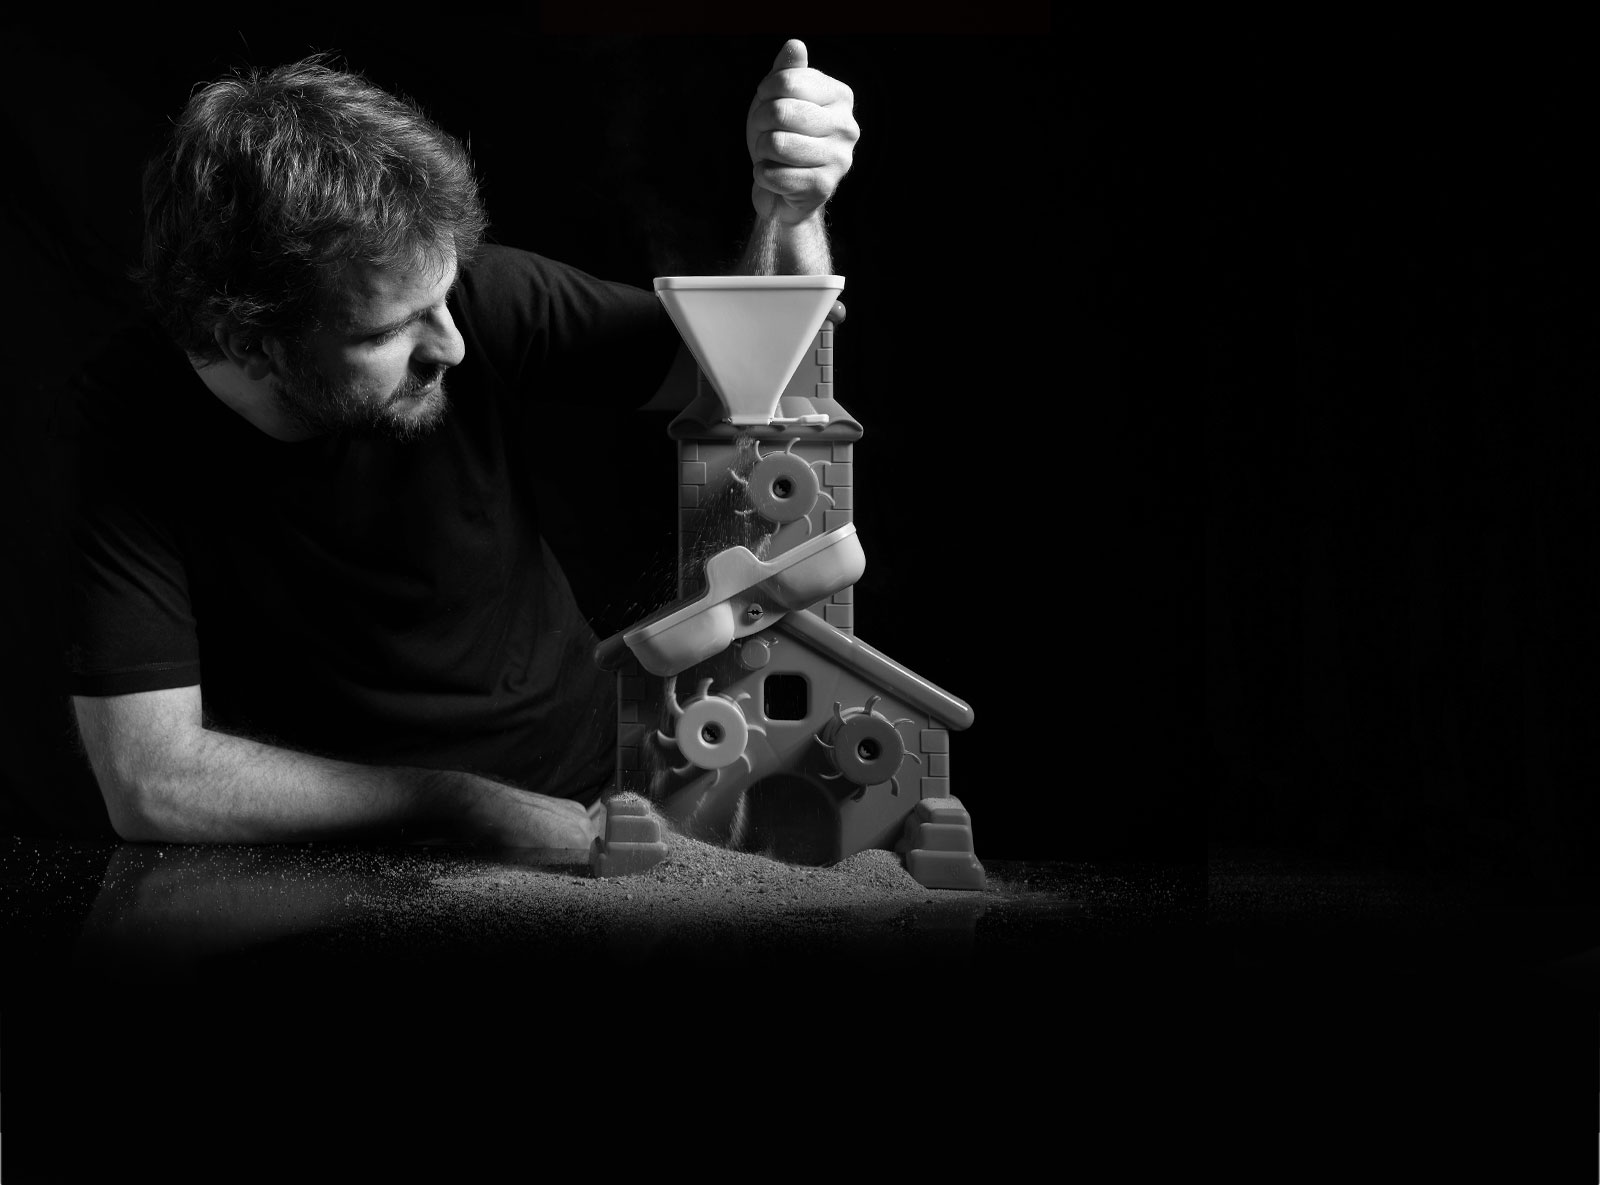
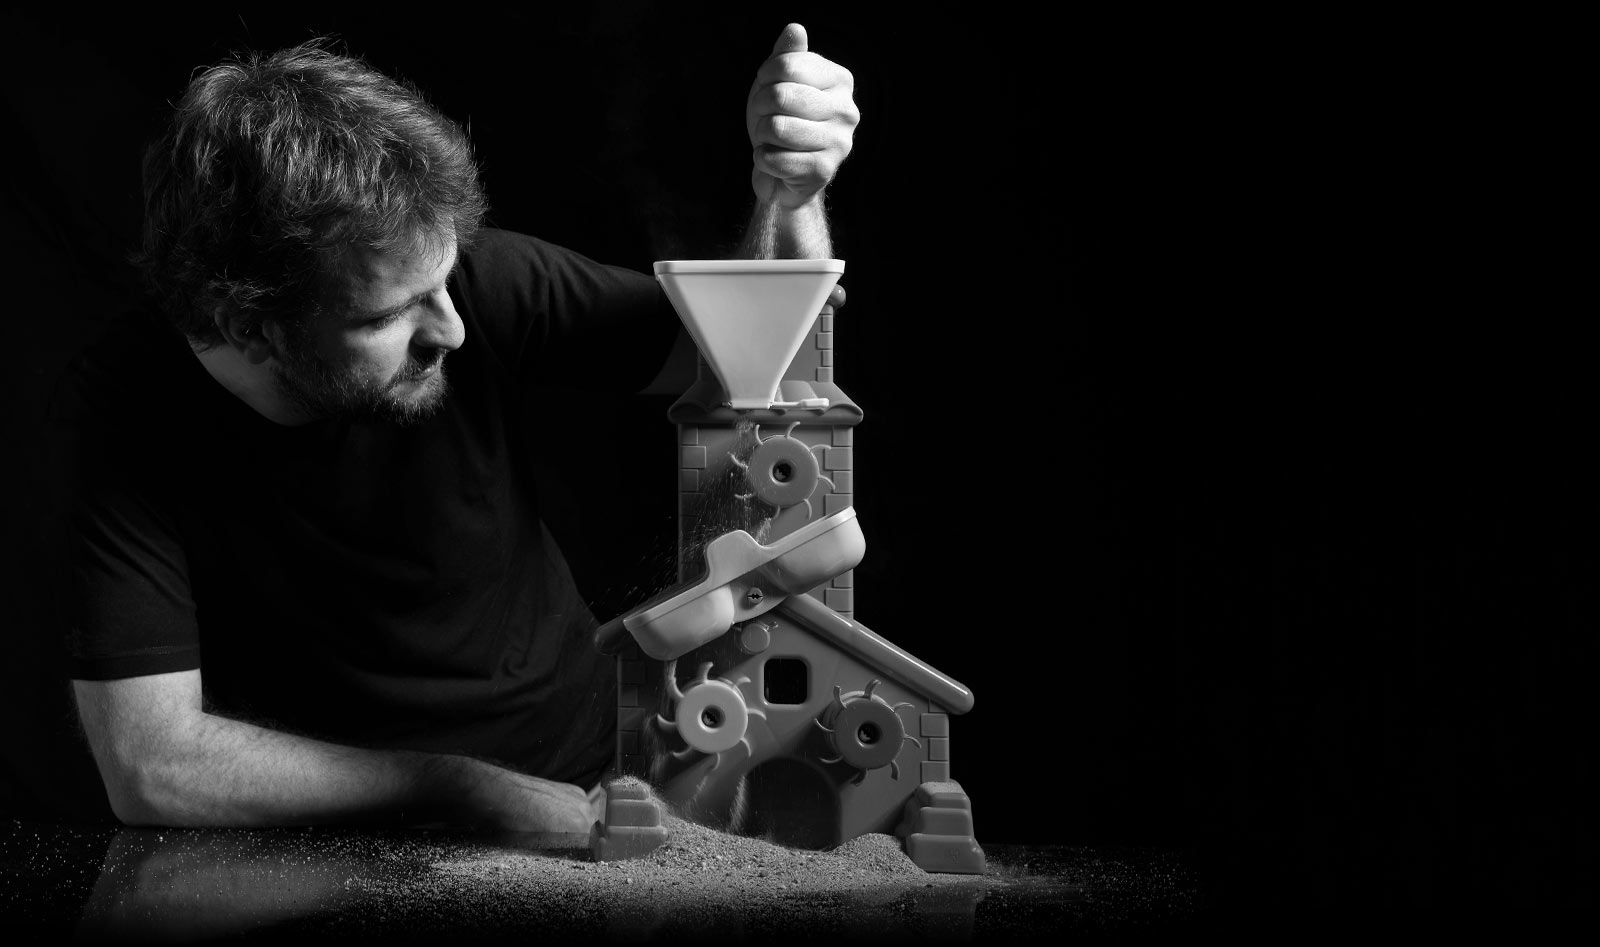
black strip

Changed region(s): [[0.0312, 0.0306, 0.6875, 0.9799]]

diff --git a/css/main.css b/css/main.css
@@ -743,8 +743,10 @@ img.top {
 
 .pt-page-5 .branch-content-1 {
   background: url(../img/05_customers/pietro_customers_bw.jpg) no-repeat;
-  background-position: right bottom;
-  background-color: #000000;
+  height: 100%;
+  max-height: 947px;
+  /*background-position: right bottom;
+  background-color: #000000;*/
   -pie-background: url(../img/05_customers/pietro_customers_bw.jpg) no-repeat; /*ie 6-9 via PIE*/
 }
 
@@ -776,9 +778,12 @@ img.top {
 }
 
 .pt-page-3 .branch-content-1 {
-  background: url(../img/03_science/luca_science_bw.jpg) no-repeat;
-  background-position: left bottom;
-  background-color: #000000;
+  background: url(../img/03_science/luca_science_bw.jpg) no-repeat center bottom;
+  height: 100%;
+  max-height: 947px;
+  /*background-position: left bottom;
+  background-color: #000000;*/
+  -pie-background: url(../img/03_science/luca_science_bw.jpg) no-repeat; /*ie 6-9 via PIE*/
 }
 
 .pt-page-3 .branch-content-2 {
@@ -811,10 +816,12 @@ img.top {
 }
 
 .pt-page-4 .branch-content-1 {
-  /*background: url(../img/04_design/foto_ufficio.jpg) no-repeat;*/
-  background-position: left bottom;
-  background-color: #000000;
-  /*-pie-background: url(../img/04_design/foto_ufficio.jpg) no-repeat; /*ie 6-9 via PIE*/*/
+  background: url(../img/04_design/foto_ufficio.jpg) no-repeat;
+  height: 100%;
+  max-height: 947px;
+  /*background-position: left bottom;
+  background-color: #000000;*/
+  -pie-background: url(../img/04_design/foto_ufficio.jpg) no-repeat; /*ie 6-9 via PIE*/
 }
 
 .pt-page-4 .branch-content-2 {
@@ -949,6 +956,11 @@ img.top {
 .products-black {
   background-color: #000000;
   height: 495px;
+}
+
+.branch-black {
+  background-color: #000000;
+  height: 235px;
 }
 
 .disclaimer {

diff --git a/_includes/pt-page-3.html b/_includes/pt-page-3.html
@@ -36,18 +36,32 @@
 </div> <!--<end head-->
 
 
-<div class="branch-content branch-content-1 row" id="home">
+<!-- <div class="branch-content branch-content-1 row" id="home">
   <div class="col-xs-5 col-xs-offset-5 row top">
     <div class="description">
       <h3>Title</h3>
       <p>TestoTestoTestoTestoTesto<br>TestoTestoTestoTesto<br>TestoTestoTesto<br>Testo<br>TestoTestoTesto<br>TestoTesto<br></p>
     </div>
-    <!-- <a class="link" href="#">
+    <a class="link" href="#">
       <h4 class="name">Luca Antiga</h4>
       <p class="role">about Principal Scientist<img src="img/00_common/arrow_about_w.png"></p>
-    </a> -->
+    </a>
   </div>
+</div> -->
+
+<div class="branch-content-resp row" id="home">
+  <div class="row">
+    <img class="img-responsive" src="/img/03_science/luca_science_bw.jpg"></img>
+  </div>
+  <div class="row branch-black">
+    <div class="col-xs-12 col-sm-6 col-lg-4"><img class="img-responsive" src="/img/00_common/apple_icon_branch.png"></img></div>
+    <div class="col-xs-12 col-sm-6 col-lg-4"><img class="img-responsive" src="/img/00_common/apple_icon_branch.png"></img></div>
+    <div class="col-xs-12 col-sm-6 col-lg-4"><img class="img-responsive" src="/img/00_common/apple_icon_branch.png"></img></div>
+  </div>
+
 </div>
+
+
 
 
 <div class="branch-content-resp row" id="machinelearning">

diff --git a/disclaimer.html b/disclaimer.html
@@ -25,7 +25,7 @@ The term 'Orobix' or 'us' or 'we' refers to the owner of the website whose regis
     <div class="col-lg-10 col-lg-offset-1">
       <h4 class="branch-name">Internet copyright notice</h4>
       <img class="img-responsive" src="img/06_team/separator.gif">
-      <p class="branch-description">This website and its content is copyright of Orobix Srl - &copy;&nbsp;Orobix, 2009. All rights reserved. Any redistribution or reproduction of part or all of the contents in any form is prohibited other than the following:</p>
+      <p class="branch-description">This website and its content is copyright of Orobix Srl - &copy;&nbsp;Orobix, 2014. All rights reserved. Any redistribution or reproduction of part or all of the contents in any form is prohibited other than the following:</p>
       <ul class="branch-description">
         <li>you may print or download to a local hard disk extracts for your personal and non-commercial use only</li>
 	<li>you may copy the content to individual third parties for their personal use, but only if you acknowledge the website as the source of the material</li>
@@ -40,4 +40,3 @@ Through this website you are able to link to other websites which are not under 
 
   {% include vat.html %}
 </div>
-

diff --git a/_includes/pt-page-4.html b/_includes/pt-page-4.html
@@ -35,17 +35,26 @@
   </div>
 </div> <!--<end head-->
 
-<div class="branch-content branch-content-1 row" id="home">
+<!-- <div class="branch-content branch-content-1 row" id="home">
   <div class="col-xs-5 col-xs-offset-5 row top">
     <div class="description">
       <h3>Title</h3>
       <p>TestoTestoTestoTestoTesto<br>TestoTestoTestoTesto<br>TestoTestoTesto<br>Testo<br>TestoTestoTesto<br>TestoTesto<br></p>
     </div>
-    <!-- <a class="link" href="#">
+    <a class="link" href="#">
       <h4 class="name">Orobix</h4>
       <p class="role">about<img src="img/00_common/arrow_about_w.png"></p>
-    </a> -->
+    </a>
   </div>
+</div> -->
+
+<div class="branch-content-resp row" id="home">
+  <div class="row">
+    <img class="img-responsive" src="/img/04_design/design_present.jpg"></img>
+  </div>
+
+  
+
 </div>
 
 <div class="branch-content-resp row" id="dataengineering">

diff --git a/_includes/pt-page-5.html b/_includes/pt-page-5.html
@@ -35,16 +35,22 @@
   </div>
 </div> <!--<end head-->
 
-<div class="branch-content branch-content-1 row">
+<!-- <div class="branch-content branch-content-1 row">
   <div class="col-xs-5 col-xs-offset-2 row top">
     <div class="description">
       <h3>Title</h3>
       <p>TestoTestoTestoTestoTesto<br>TestoTestoTestoTesto<br>TestoTestoTesto<br>Testo<br>TestoTestoTesto<br>TestoTesto<br></p>
     </div>
-    <!-- <a class="link" href="#">
+    <a class="link" href="#">
       <h4 class="name">Pietro Rota</h4>
       <p class="role">about<img src="img/00_common/arrow_about_w.png"></p>
-    </a> -->
+    </a>
+  </div>
+</div> -->
+
+<div class="branch-content-resp row" id="home">
+  <div class="row">
+    <img class="img-responsive" src="/img/05_customers/pietro_customers_bw.jpg"></img>
   </div>
 </div>
 
